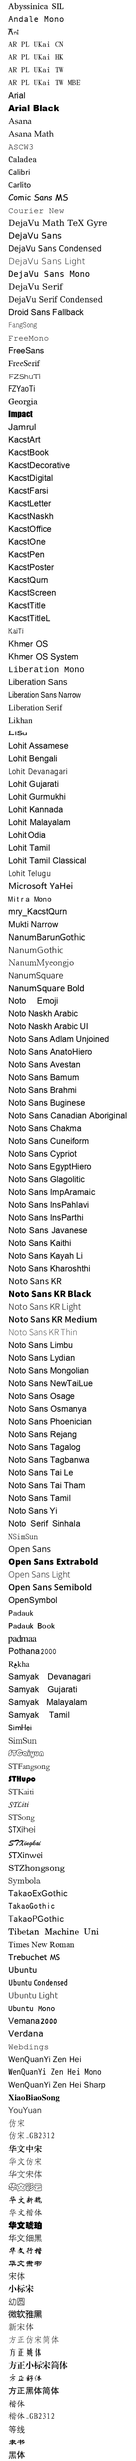
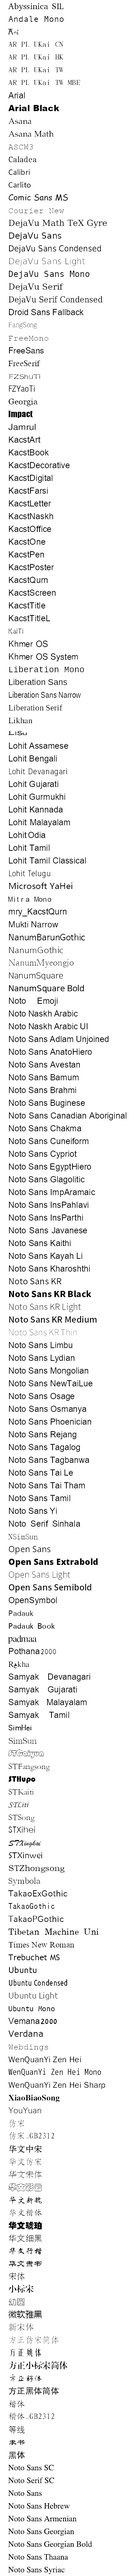
fix(fonts): rebuild the png sprites from their masks, so the pair agrees
Each font-picker sprite ships twice: the run-length alpha mask every
browser reads (*.png.bin) and an RGBA png only the ONLYOFFICE desktop
shell reads (supportBinaryFormat is false only when Desktop.isActive()).
#218's fix appended nine tiles to the masks and left the pngs at 193 --
correct for every browser, and a latent inconsistency for anything that
reads the other file.

Two encodings of one picture drift unless one is generated from the
other, so bin/font-thumbnails.mjs now rebuilds each png from its mask
rather than appending to it: same tile count, same pixels, by
construction. It reports and repairs that drift on its own, so a mask
edited by hand cannot leave the png behind.

bin/lib/png.mjs is just enough PNG for the one shape these files use --
8-bit RGBA, no interlacing -- with a decoder so the check can be an
equality rather than a size comparison: the new unit case decodes both
files and requires the alpha channels to be identical.

Claude-Session: https://claude.ai/code/session_01MKNHFQ1kek1cHeqhbH37Pk

Changed region(s): [[0.0587, 0.0, 0.7333, 0.9996]]

diff --git a/test/unit/font-catalog-licensing.test.ts b/test/unit/font-catalog-licensing.test.ts
@@ -5,6 +5,7 @@ import { describe, expect, it } from 'vitest';
 import { X2TConverter } from '@ranuts/converter';
 
 import { glyphId, readNames, xorPrefix } from '../../bin/lib/sfnt.mjs';
+import { decodeAlphaPng } from '../../bin/lib/png.mjs';
 
 /**
  * The font catalog is redistributed from a public repository and a public
@@ -151,6 +152,36 @@ describe('font picker thumbnail sprites', () => {
       const header = readFileSync(resolve(IMAGES, name)).subarray(0, 12);
       const tiles = header.readUInt32BE(8);
       expect(tiles, `${name} has ${tiles} tiles for ${families} families`).toBeGreaterThanOrEqual(families);
+    }
+  });
+
+  it('keeps each png twin pixel-identical to the mask beside it', () => {
+    // The sprite ships twice: the run-length alpha mask every browser reads,
+    // and an RGBA png only the ONLYOFFICE desktop shell reads
+    // (`supportBinaryFormat` is false only when `Desktop.isActive()`). Two
+    // encodings of one picture drift unless one is generated from the other --
+    // which is what bin/font-thumbnails.mjs does, and this is the check that
+    // it was run.
+    for (const name of spriteNames) {
+      const bytes = readFileSync(resolve(IMAGES, name));
+      const width = bytes.readUInt32BE(0);
+      const heightOne = bytes.readUInt32BE(4);
+      const tiles = bytes.readUInt32BE(8);
+      const mask = new Uint8Array(width * heightOne * tiles);
+      let offset = 12;
+      let at = 0;
+      while (offset < bytes.length) {
+        const value = bytes[offset++];
+        if (value === 0) at += bytes[offset++];
+        else mask[at++] = value;
+      }
+
+      const png = decodeAlphaPng(readFileSync(resolve(IMAGES, name.replace(/\.bin$/, ''))));
+      expect({ width: png.width, height: png.height }, `${name} png size`).toEqual({
+        width,
+        height: heightOne * tiles,
+      });
+      expect(Buffer.from(png.alpha).equals(Buffer.from(mask)), `${name} png differs from its mask`).toBe(true);
     }
   });
 

diff --git a/CLAUDE.md b/CLAUDE.md
@@ -997,9 +997,11 @@ v7 代码分支（OO_VARIANT、页面级 x2t 打开转换、empty_bin 模板、v
      `RangeError: Invalid typed array length` —— 滑到底直接抛，之后每次滚动再抛一次，
      文档没法编辑了。上游不会踩是因为 `allfontsgen` 一次性写出 AllFonts.js 和精灵图
      （对照一个官方部署：144 families / 144 瓦片），我们是手改目录的。
-     改完目录跑 `node bin/font-thumbnails.mjs`（幂等，只补缺的；`--check` 只报不写），
+     改完目录跑 `node bin/font-thumbnails.mjs`（幂等，只补缺的；`--check` 只报不写）——它同时
+     **从掩码重建 `.png` 孪生文件**（只有 ONLYOFFICE 桌面壳读它，浏览器永远走不到，但一张图两种
+     编码不由同一处生成就会走散），
      `font-catalog-licensing.test.ts` 钉住"每张精灵图的瓦片数 ≥ family 数"且
-     "解码像素数正好等于 width×heightOne×count"，
+     "解码像素数正好等于 width×heightOne×count"、"`.png` 的 alpha 通道与 `.bin` 掩码逐像素相同"，
      `test/e2e/font-picker-scroll.spec.ts` 走用户路径把列表滑到底。见
      docs/explorations/2026-09-12-font-picker-sprite-shorter-than-catalog.md。
   3. **回退区间背后的字体必须真的有那些字**。picker 查一次 `__fonts_ranges` 就
